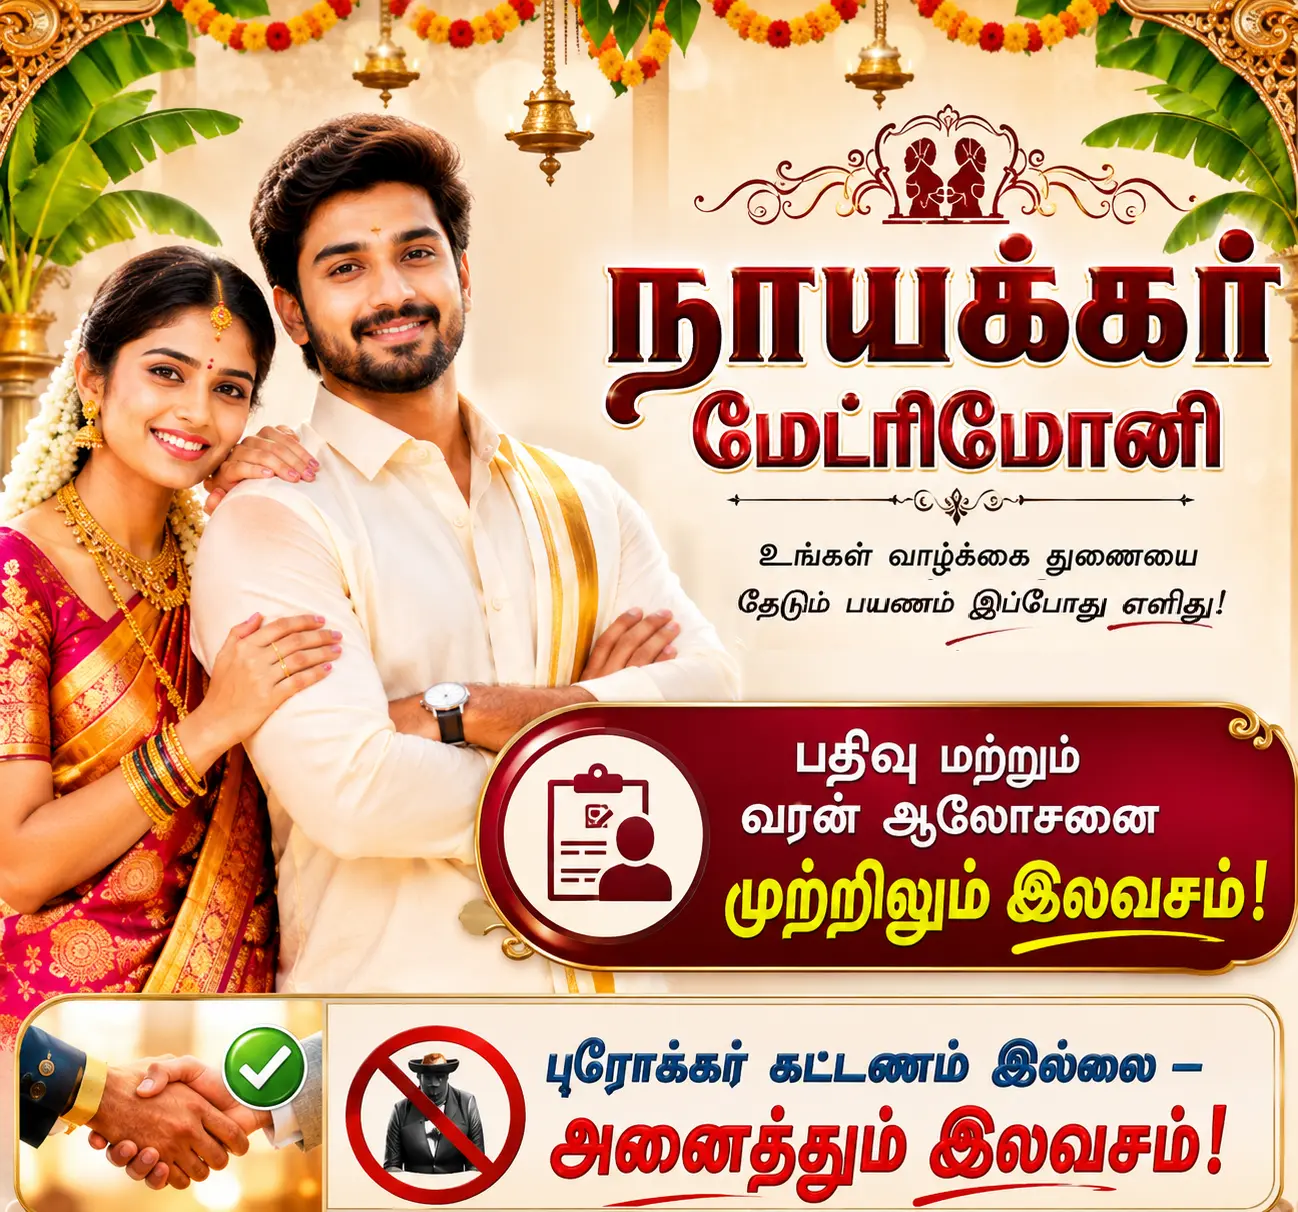
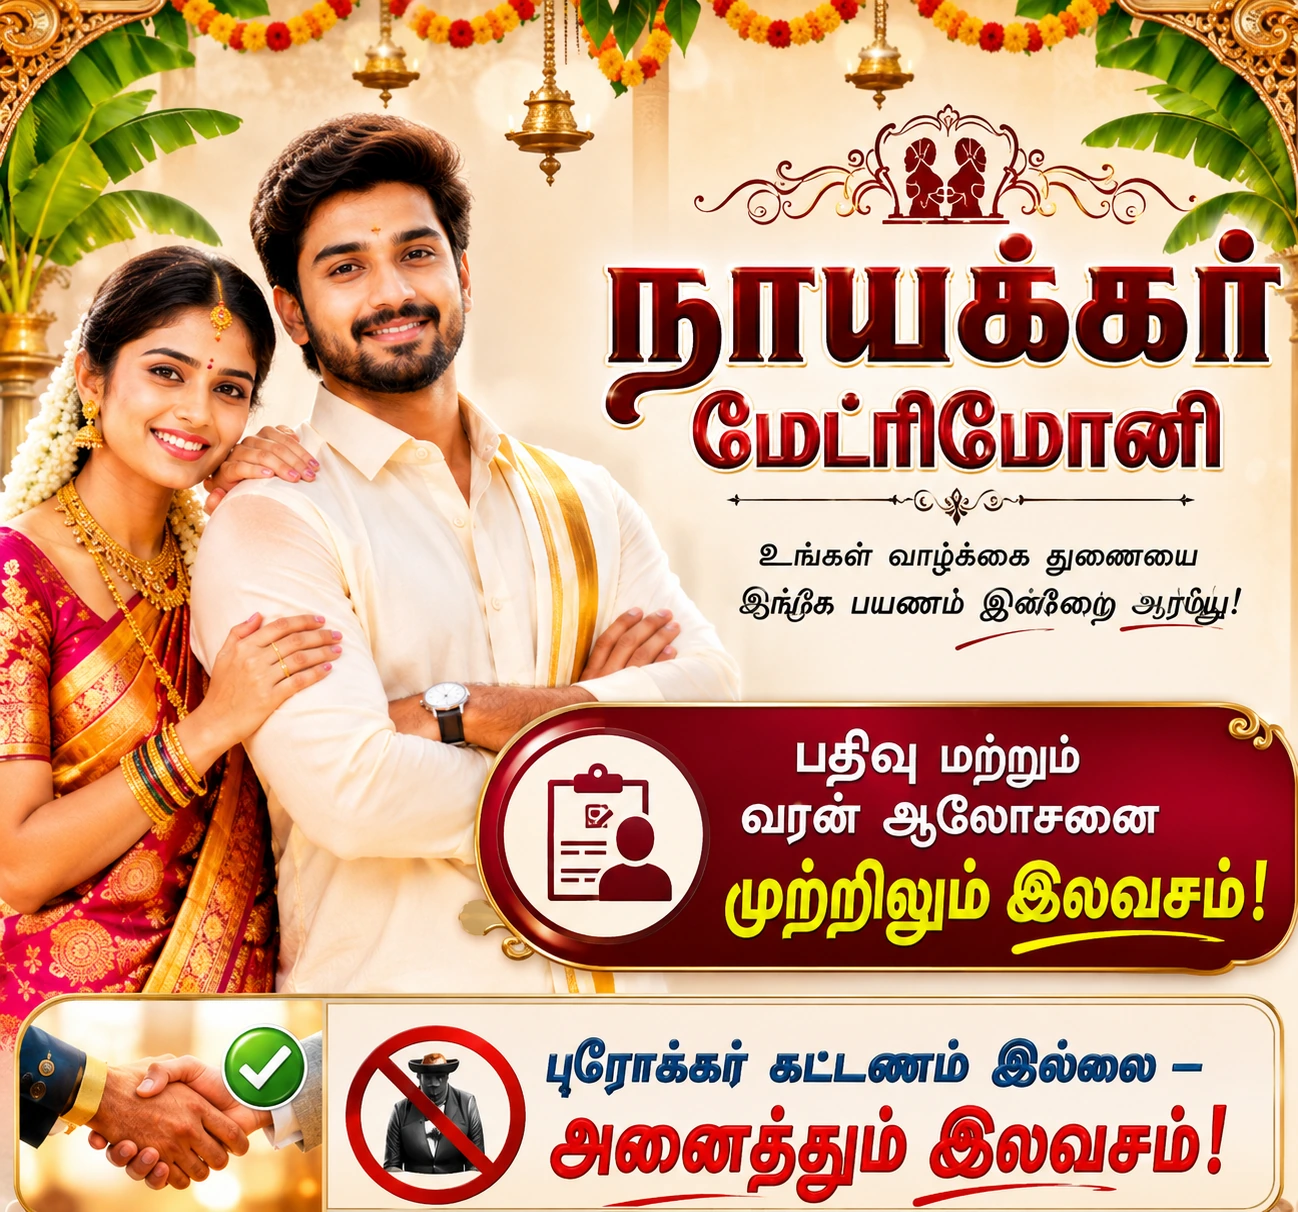
v12update

Changed region(s): [[0.5547, 0.4884, 0.9553, 0.5495]]

diff --git a/src/pages/ProfileDetails.jsx b/src/pages/ProfileDetails.jsx
@@ -6,7 +6,6 @@ import { Avatar, PrimaryButton, PlanBadge } from "../components/ui";
 import {
   fetchProfileById, fetchRequestsFor, sendInterestRequest, fetchFavourites, toggleFavourite,
   createNotification, recordProfileView, fetchBlockedProfiles, blockProfile, unblockProfile, submitProfileReport,
-  registerProfileView,
 } from "../data/queries";
 import { calculateMatchScore } from "../utils/matchScore";
 
@@ -19,7 +18,6 @@ export default function ProfileDetails({ profileId, onNavigate, showToast }) {
   const [isFav, setIsFav] = useState(false);
   const [isBlocked, setIsBlocked] = useState(false);
   const [showReportModal, setShowReportModal] = useState(false);
-  const [viewBlocked, setViewBlocked] = useState(null); // { limit, plan } when daily limit is hit
 
   React.useEffect(() => {
     load();
@@ -27,7 +25,6 @@ export default function ProfileDetails({ profileId, onNavigate, showToast }) {
 
   async function load() {
     setLoading(true);
-    setViewBlocked(null);
     const { data } = await fetchProfileById(profileId);
     if (userId) {
       const { data: reqs } = await fetchRequestsFor(userId);
@@ -37,13 +34,6 @@ export default function ProfileDetails({ profileId, onNavigate, showToast }) {
       const { data: blocks } = await fetchBlockedProfiles(userId);
       setIsBlocked(blocks.some(b => b.blocked_id === profileId));
       if (profileId !== userId) {
-        const viewResult = await registerProfileView(userId);
-        if (!viewResult.error && viewResult.allowed === false) {
-          setViewBlocked({ limit: viewResult.limit, plan: viewResult.plan });
-          setProfile(null);
-          setLoading(false);
-          return;
-        }
         recordProfileView(userId, profileId);
       }
     }
@@ -103,25 +93,6 @@ export default function ProfileDetails({ profileId, onNavigate, showToast }) {
   }
 
   if (loading) return <div style={{ textAlign: "center", color: colors.textFaint, padding: 40 }}>Loading…</div>;
-
-  if (viewBlocked) {
-    return (
-      <div style={{ textAlign: "center", padding: "50px 20px", color: colors.textFaint, background: colors.card, borderRadius: 14, border: `1px solid ${colors.cardBorder}` }}>
-        <Lock size={30} style={{ marginBottom: 12, opacity: 0.6 }} />
-        <div style={{ fontWeight: 700, color: colors.text, fontSize: 16, marginBottom: 6 }}>
-          Daily profile view limit reached / இன்றைய பார்வை வரம்பு முடிந்தது
-        </div>
-        <div style={{ fontSize: 13, marginBottom: 18 }}>
-          Your {viewBlocked.plan ? viewBlocked.plan.charAt(0).toUpperCase() + viewBlocked.plan.slice(1) : "Free"} plan allows {viewBlocked.limit} profile views per day. Upgrade to Silver or Gold for a higher daily limit, or come back tomorrow.
-          <br />உங்கள் திட்டத்தில் இன்று அனுமதிக்கப்பட்ட பார்வைகள் முடிந்துவிட்டன். Silver/Gold திட்டத்திற்கு மேம்படுத்தவும் அல்லது நாளை முயற்சிக்கவும்.
-        </div>
-        <button onClick={() => onNavigate("plans")} style={{
-          background: colors.primary, color: colors.primaryText, border: "none", borderRadius: 8,
-          padding: "10px 20px", fontWeight: 700, fontSize: 14,
-        }}>View Membership Plans / திட்டங்களைப் பார்க்க</button>
-      </div>
-    );
-  }
 
   if (!profile) return <div style={{ textAlign: "center", color: colors.textFaint, padding: 40 }}>Profile not found.</div>;
 

diff --git a/src/pages/Plans.jsx b/src/pages/Plans.jsx
@@ -2,7 +2,7 @@ import React from "react";
 import { Crown, Check, ShieldCheck, Star, Sparkles } from "lucide-react";
 import { useTheme } from "../context/ThemeContext";
 import { useAuth } from "../context/AuthContext";
-import { normalizePlan, formatDailyViewLimit, formatDailyInterestLimit } from "../utils/plans";
+import { normalizePlan } from "../utils/plans";
 
 const PLAN_CARDS = [
   {
@@ -14,11 +14,11 @@ const PLAN_CARDS = [
     features: [
       "Create profile",
       "Browse approved profiles",
-      "5 interest requests per day",
+      "Unlimited interest requests",
+      "Unlimited profile views",
       "Shortlist / Favourites",
       "Porutham / compatibility details",
       "Profile verification request",
-      "10 profile views per day",
     ],
   },
   {
@@ -29,8 +29,6 @@ const PLAN_CARDS = [
     icon: Star,
     features: [
       "Everything in Free",
-      "50 profile views per day",
-      "Unlimited interest requests",
       "Priority listing in Browse",
       "See who viewed your profile",
       "Silver badge on your profile",
@@ -44,8 +42,6 @@ const PLAN_CARDS = [
     icon: Crown,
     features: [
       "Everything in Silver",
-      "Unlimited profile views",
-      "Unlimited interest requests",
       "Top priority listing in Browse",
       "See who viewed your profile",
       "Gold badge on your profile",
@@ -64,10 +60,10 @@ export default function Plans() {
         Membership Plans / உறுப்பினர் திட்டங்கள்
       </h2>
       <p style={{ fontSize: 12.5, color: colors.textMuted, lineHeight: 1.6, marginBottom: 16 }}>
-        Naicker Matrimony core features are free for every member. Silver and Gold
-        raise your daily profile-view limit and give your profile a badge in Browse.
+        All core features — unlimited browsing, interests and profile views — are free for every member.
+        Silver and Gold add priority listing and let you see who viewed your profile.
         <br />
-        அடிப்படை அம்சங்கள் அனைவருக்கும் இலவசம். Silver/Gold திட்டங்கள் உங்கள் தினசரி பார்வை வரம்பை அதிகரிக்கும்.
+        அடிப்படை அம்சங்கள் அனைவருக்கும் இலவசம், வரம்பு இல்லாமல். Silver/Gold திட்டங்கள் முன்னுரிமை பட்டியல் மற்றும் யார் பார்த்தார்கள் என்பதைக் காட்டும்.
       </p>
 
       {PLAN_CARDS.map((plan) => {
@@ -123,7 +119,9 @@ export default function Plans() {
               fontWeight: 800, textAlign: "center", boxSizing: "border-box", fontSize: 12.5,
             }}>
               {isCurrent
-                ? `Views: ${formatDailyViewLimit(plan.key)} · Interests: ${formatDailyInterestLimit(plan.key)}`
+                ? plan.key === "free"
+                  ? "Unlimited browsing, interests & views"
+                  : "Priority listing + who viewed your profile"
                 : plan.key === "free"
                   ? "Default plan for every new member"
                   : "Contact admin to activate this plan"}

diff --git a/src/data/queries.js b/src/data/queries.js
@@ -121,7 +121,6 @@ export async function sendInterestRequest(fromId, toId) {
     const reasonMessages = {
       already_accepted: "Interest already accepted",
       already_sent: "Interest already sent",
-      daily_limit_reached: `Daily interest limit reached (${data?.limit ?? ""}/day on your plan). Upgrade to Silver or Gold for unlimited interests.`,
     };
     return { error: { message: reasonMessages[data?.reason] || "Could not send interest" } };
   }
@@ -192,18 +191,12 @@ export async function deleteProfile(id, adminPin) {
 // ============ MEMBERSHIP PLANS (Free / Silver / Gold) ============
 // Plan changes are admin-only for now (manual toggle). No payment gateway
 // is wired up yet — a future payment webhook can call the same RPC.
+// Note: profile views and interest requests are unlimited on every plan.
+// Silver/Gold's remaining perks are priority listing in Browse and
+// "who viewed my profile" (see fetchProfileViewers below).
 export async function setProfilePlan(id, plan, adminPin) {
   const { error } = await supabase.rpc("admin_set_profile_plan", { p_pin: adminPin, p_profile_id: id, p_plan: plan });
   return { error };
-}
-
-// Called when a member opens another profile. Server-side atomically checks
-// and increments today's view count against the viewer's plan daily limit.
-// Returns { allowed, remaining, limit, plan } or { error } if the RPC fails.
-export async function registerProfileView(viewerId) {
-  const { data, error } = await supabase.rpc("member_register_profile_view", { p_viewer_id: viewerId });
-  if (error) return { allowed: true, remaining: null, limit: null, plan: null, error };
-  return { ...(data || {}), error: null };
 }
 
 export async function fetchContactMessages() {

diff --git a/src/utils/plans.js b/src/utils/plans.js
@@ -9,8 +9,8 @@ export const PLAN_INFO = {
   free: {
     label: "Free",
     tamil: "இலவசம்",
-    dailyViewLimit: 10,
-    dailyInterestLimit: 5,
+    dailyViewLimit: null, // unlimited
+    dailyInterestLimit: null, // unlimited
     priority: false,
     whoViewed: false,
     color: "#8a7a63",
@@ -18,7 +18,7 @@ export const PLAN_INFO = {
   silver: {
     label: "Silver",
     tamil: "சில்வர்",
-    dailyViewLimit: 50,
+    dailyViewLimit: null, // unlimited
     dailyInterestLimit: null, // unlimited
     priority: true,
     whoViewed: true,
